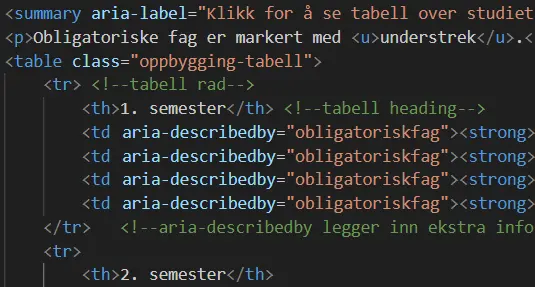
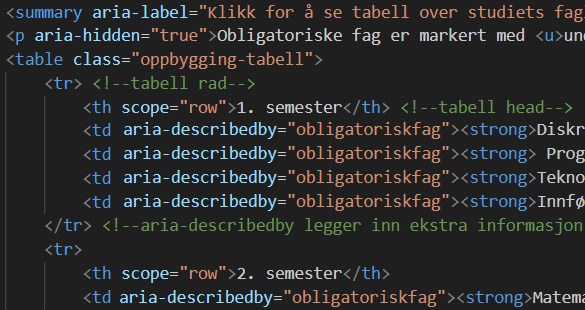
FERDIG :)

diff --git a/matmod-test/index.html b/matmod-test/index.html
@@ -42,7 +42,7 @@
             <h1>Matematisk modellering og datavitenskap - ingeniør</h1>
             <p class="bachelorprogram">Bachelorprogam</p>  <!--heading eller p?-->
 
-            <table class="oversikt-tabell">
+            <table class="oversikt-tabell" aria-label="tabellen viser oversikt over studiested, varighet, omfang, studiepoeng, studiestart, undervisningsspråk og antall studieplasser">
                 <tr>
                     <td><strong>Studiested</strong><br>Pilestredet i Oslo</td>
                     <td><strong>Varighet</strong><br>3 år</td>
@@ -213,64 +213,64 @@
 
         <details class="studiets-oppbygging"> <!--Tabell for studiets faglige oppbygging-->
             <summary aria-label="Klikk for å se tabell over studiets faglige oppbygging"><h2>&#9658 Studiets oppbygging</h2></summary>
-            <p>Obligatoriske fag er markert med <u>understrek</u>.</p>
+            <p aria-hidden="true">Obligatoriske fag er markert med <u>understrek</u>.</p>
             <table class="oppbygging-tabell">
                 <tr> <!--tabell rad-->
-                    <th>1. semester</th> <!--tabell heading-->
+                    <th scope="row">1. semester</th> <!--tabell head-->
                     <td class="obligatoriskfag" aria-describedby="obligatoriskfag"><strong>Diskret matematikk</strong><br> DAPE1300 10stp.</td> <!--tabell data-->
                     <td class="obligatoriskfag" aria-describedby="obligatoriskfag"><strong> Programmering </strong><br> DAPE1400 10stp.</td>
                     <td class="obligatoriskfag" aria-describedby="obligatoriskfag"><strong>Teknologi og samfunn for programmerere</strong> <br> DATA1100 5stp.</td>
                     <td class="obligatoriskfag" aria-describedby="obligatoriskfag"><strong>Innføring i modeller og beregninger</strong> <br> MAMO1100 5 stp.</td>
-                </tr>   <!--aria-describedby legger inn ekstra informasjon for skjermlesere, uten å override det originale innholdet-->
+                </tr> <!--aria-describedby legger inn ekstra informasjon for skjermlesere, uten å override det originale innholdet-->
                 <tr>
-                    <th>2. semester</th>
+                    <th scope="row">2. semester</th>
                     <td class="obligatoriskfag" aria-describedby="obligatoriskfag"><strong>Matematikk 1000</strong><br>DAFE1000 10stp.</td>
-                    <td class="obligatoriskfag" aria-describedby="obligatoriskfag"><strong>Fysikk og kjemi</strong><br>DAPE 2101 10 stp.</td>
+                    <td class="obligatoriskfag" aria-describedby="obligatoriskfag"><strong>Fysikk og kjemi</strong><br>DAPE2101 10 stp.</td>
                     <td class="obligatoriskfag" aria-describedby="obligatoriskfag"><strong>Databaser</strong><br>DATA1500 10 stp.</td>
                 </tr>
                 <tr>
-                    <th>3. semester</th>
+                    <th scope="row">3. semester</th>
                     <td class="obligatoriskfag" aria-describedby="obligatoriskfag"><strong>Matematikk 2000 med statistikk</strong><br>DAPE2000 10stp.</td>
                     <td class="obligatoriskfag" aria-describedby="obligatoriskfag"><strong>Moderne fysikk</strong><br>MAMO2100 10stp</td>
                 </tr>
                 <tr>
-                    <th>Emnegruppe: Matematikk og fysikk</th>
+                    <th scope="row" aria-describedby="3. semester">Emnegruppe: Matematikk og fysikk</th>
                     <td class="obligatoriskfag" aria-describedby="obligatoriskfag"><strong>Lineær algebra og introduksjon til gruppeteori</strong><br>MAMO2300 10 stp.</td>
                 </tr>
                 <tr>
-                    <th>Emnegruppe: Statistiske og datadrevne metoder</th>
+                    <th scope="row" aria-describedby="3. semester">Emnegruppe: Statistiske og datadrevne metoder</th>
                     <td class="obligatoriskfag" aria-describedby="obligatoriskfag"><strong>Algoritmer og datastrukturer</strong><br>DATS2300 10 stp.</td>
                 </tr>
                 <tr>
-                    <th>Emnegruppe: Vitenskaplige beregninger</th>
+                    <th scope="row" aria-describedby="3. semester">Emnegruppe: Vitenskaplige beregninger</th>
                     <td class="obligatoriskfag" aria-describedby="obligatoriskfag"><strong>Algoritmer og datastrukturer</strong><br>DATS2300 10 stp.</td>
                 </tr>
                 <tr>
-                    <th>4. semester</th>
+                    <th scope="row">4. semester</th>
                     <td class="obligatoriskfag" aria-describedby="obligatoriskfag"><strong>Matematikk 4000</strong><br>DAVE3705 10 stp.</td>
                 </tr>
                 <tr>
-                    <th>Emnegruppe: Matematikk og fysikk</th>
+                    <th scope="row" aria-describedby="4. semester">Emnegruppe: Matematikk og fysikk</th>
                     <td class="obligatoriskfag" aria-describedby="obligatoriskfag"><strong>Termodynamikk og statistisk fysikk</strong><br>MAMO2400 10 stp.</td>
                     <td class="obligatoriskfag" aria-describedby="obligatoriskfag"><strong>Symmetrier og algebraiske strukturer</strong><br>MAMO2500 10stp.</td>
                 </tr>
                 <tr>
-                    <th>Emnegruppe: Statistiske og datadrevne metoder</th>
+                    <th scope="row" aria-describedby="4. semester">Emnegruppe: Statistiske og datadrevne metoder</th>
                     <td class="obligatoriskfag" aria-describedby="obligatoriskfag"><strong>Statistisk analyse</strong><br>MAMO3100 10stp.</td>
                     <td aria-describedby="valgfag"><strong>Visualisering</strong><br>ADSE2300 10 stp.</td>
                     <td aria-describedby="valgfag"><strong>Avansert modellering og beregninger</strong><br>MAMO2200 10 stp.</td>
                 </tr>
                 <tr>
-                    <th>Emnegruppe: Vitenskaplige beregninger</th>
+                    <th scope="row" aria-describedby="4. semester">Emnegruppe: Vitenskaplige beregninger</th>
                     <td class="obligatoriskfag" aria-describedby="obligatoriskfag"><strong>Ressurseffektive programmer</strong><br>DAVE3606 10stp.</td>
                     <td class="obligatoriskfag" aria-describedby="obligatoriskfag"><strong>Avansert modellering og beregninger</strong><br>MAMO2200 10 stp.</td>
                 </tr>
                 <tr>
-                    <th>5. semester</th>
+                    <th scope="row">5. semester</th>
                     <td class="obligatoriskfag" aria-describedby="obligatoriskfag"><strong>Matematikk 3000</strong><br>DAVE3700 10stp.</td>
                 </tr>
                 <tr>
-                    <th>Emnegruppe: Matematikk og fysikk</th>
+                    <th aria-describedby="5. semester">Emnegruppe: Matematikk og fysikk</th>
                     <td class="obligatoriskfag" aria-describedby="obligatoriskfag"><strong>Reell analyse</strong><br>MAMO3300 10stp.</td>
                     <td aria-describedby="valgfag"><strong>Introduksjon til IT-forskning</strong><br>DATA3730 10stp.</td>
                     <td aria-describedby="valgfag"><strong>Introduction to Data Science with Scripting</strong><br>DATA3800 10stp.</td>
@@ -278,7 +278,7 @@
                     <td aria-describedby="valgfag"><strong>Simulering og visualisering</strong><br>MAMO3200 10 stp.</td>
                 </tr>
                 <tr>
-                    <th>Emnegruppe: Statistiske og datadrevne metoder</th>
+                    <th scope="row" aria-describedby="5. semester">Emnegruppe: Statistiske og datadrevne metoder</th>
                     <td class="obligatoriskfag" aria-describedby="obligatoriskfag"><strong>Introduksjon til Kunstig Intelligens</strong><br>DAVE3625 10stp.</td>
                     <td aria-describedby="valgfag"><strong>Introduksjon til IT-forskning</strong><br>DATA3730 10stp.</td>
                     <td aria-describedby="valgfag"><strong>Anvendt kunstig intelligens og data science project</strong><br>DATA3750 10 stp.</td>
@@ -286,7 +286,7 @@
                     <td aria-describedby="valgfag"><strong>Simulering og visualisering</strong><br>MAMO3200 10 stp.</td>
                  </tr>
                  <tr>
-                    <th>Emnegruppe: Vitenskaplige beregninger</th>
+                    <th scope="row" aria-describedby="5. semester">Emnegruppe: Vitenskaplige beregninger</th>
                     <td class="obligatoriskfag" aria-describedby="obligatoriskfag"><strong>Simulering og visualisering</strong><br>MAMO3200 10 stp.</td>
                     <td aria-describedby="valgfag"><strong>Introduksjon til IT-forskning</strong><br>DATA3730 10stp.</td>
                     <td aria-describedby="valgfag"><strong>Datasikkerhet</strong><br>ITPE3100 10 stp.</td>
@@ -294,24 +294,24 @@
                     <td aria-describedby="valgfag"><strong>Reell analyse</strong><br>MAMO3300 10stp.</td>
                 </tr>
                 <tr>
-                    <th>6.semester</th>
+                    <th scope="row">6.semester</th>
                     <td class="obligatoriskfag" aria-describedby="obligatoriskfag"><strong>Bacheloroppgave</strong><br>DATA3900 20stp.</td>
                 </tr>
                 <tr>
-                    <th>Emnegruppe: Matematikk og fysikk</th>
+                    <th scope="row" aria-describedby="6. semester">Emnegruppe: Matematikk og fysikk</th>
                     <td aria-describedby="valgfag"><strong>Testing av programvare</strong><br>ADTS2310 10stp.</td>
                     <td aria-describedby="valgfag"><strong>Datanettverk og skytjenester</strong><br>DATA2410 10stp.</td>
                     <td aria-describedby="valgfag"><strong>Ressurseffektive programmer</strong><br>DAVE3606 10stp.</td>
                     <td aria-describedby="valgfag"><strong>Avansert modellering og beregninger</strong><br>MAMO2200 10 stp.</td>
                 </tr>
                 <tr>
-                    <th>Emnegruppe: Statistiske og datadrevne metoder</th>
+                    <th scope="row" aria-describedby="6. semester">Emnegruppe: Statistiske og datadrevne metoder</th>
                     <td aria-describedby="valgfag"><strong>Testing av programvare</strong><br>ADTS2310 10stp.</td>
                     <td aria-describedby="valgfag"><strong>Datanettverk og skytjenester</strong><br>DATA2410 10stp.</td>
                     <td aria-describedby="valgfag"><strong>Ressurseffektive programmer</strong><br>DAVE3606 10stp.</td>
                 </tr>
                 <tr>
-                    <th>Emnegruppe: Vitenskaplige beregninger</th>
+                    <th scope="row" aria-describedby="6. semester">Emnegruppe: Vitenskaplige beregninger</th>
                     <td aria-describedby="valgfag"><strong>Visualisering</strong><br>ADSE2300 10 stp.</td>
                     <td aria-describedby="valgfag"><strong>Testing av programvare</strong><br>ADTS2310 10stp.</td>
                     <td aria-describedby="valgfag"><strong>Datanettverk og skytjenester</strong><br>DATA2410 10stp.</td>

diff --git a/matmod-test/style.css b/matmod-test/style.css
@@ -1,30 +1,30 @@
 /* Innhold:
 
-    Hovedside
-        Header
-        Innledning (mellom header og hoved-grid)
-        Details
-        Main-grid og second-grid
-        Bilder i hoved-grid
-        Studiets oppbygging-tabell
-        Studiets oppbygging-tabell @media (max-width: 800px)
-        Andre fag og studenthistorier
-        Aside: spå fremtiden
-        Footer
+    33 Hovedside
+        72 Header
+        99 Innledning (mellom header og hoved-grid)
+        140 Details
+        150 Main-grid og second-grid
+        237 Bilder i hoved-grid
+        246 Studiets oppbygging-tabell
+        285 Studiets oppbygging-tabell @media (max-width: 800px)
+        325 Andre fag og studenthistorier
+        353 Aside: spå fremtiden
+        419 Footer
 
-        Hovedside for mobiltelefon
-        Hovedside for ultra-wide skjerm
-        Hovedside for nettbrett
+        474 Hovedside for mobiltelefon
+        570 Hovedside for ultra-wide skjerm
+        683 Hovedside for nettbrett
 
-    Activityside 
-        Aktivitetsbokser
-        Informasjon under aktivitetsbokser  
-        Footer
-        Activity for mobil
-        Activity for ultra-wide skjerm 
+    707 Activityside 
+        742 Aktivitetsbokser
+        815 Informasjon under aktivitetsbokser  
+        849 Footer
+        892 Activity for mobil
+        910 Activity for ultra-wide skjerm 
 
-    Github
-    Accessibility
+    933 Github
+    984 Accessibility
     */
 
 
@@ -35,7 +35,7 @@
 body {
     overflow-x: hidden;
     margin: 0;
-    font-family: Montserrat, Helvetica, Arial; /* må endres */ 
+    font-family: Montserrat, Helvetica, Arial; 
 }
 
 h1{
@@ -116,21 +116,19 @@ button:hover, a:hover {
         font-size: large;
     }
 
+    td {
+        vertical-align: top;
+    }
+
     .oversikt-tabell{
         margin-left: auto;
         margin-right: auto; /* Plasserer tabellen midt på siden (horisontalt)*/
-        overflow-x: auto; /* Enable horizontal scrolling */ 
-        -webkit-overflow-scrolling: touch; /* For smooth scrolling on mobile */ 
     }
 
-    .oversikt-tabell, .oversikt-tabell th, .oversikt-tabell td { /*MÅ FIKSES MTP PÅ SKALERING*/
+    .oversikt-tabell, .oversikt-tabell th, .oversikt-tabell td { 
         border-spacing: 20px;
         color: black;
         text-align: left;
-    }
-
-    td {
-        vertical-align: top;
     }
 
     .bachelorprogram {
@@ -238,22 +236,15 @@ button:hover, a:hover {
 
 /* BILDER I HOVED-GRID */
 
-    .lilla-student-bilde>img, .robot-bilde>img, .gruppearbeid-bilde>img, .undervisning-bilde>img, .digital-bilde>img  {
-        object-fit: cover; /* cover sørger for at containeren alltid fylles opp av bildet */
-        max-width: 100%; 
-        
-        height: 100%; 
-    } 
-
     .main-grid picture>img {
-    object-fit: cover; /* cover sørger for at containeren alltid fylles opp av bildet */
-    max-width: 100%; 
+    object-fit: cover; /* cover sørger for at containeren alltid fylles opp av bildet */ 
     width: 100%;
     height: 100%;
     }
 
 
 /* STUDIETS OPPBYGGING TABELL */
+
     .studiets-oppbygging {
         background-color: rgb(218, 228, 236);
         margin: 2%;
@@ -360,6 +351,7 @@ button:hover, a:hover {
 
 
 /*ASIDE: SPÅ FREMTIDEN*/
+
     .spa-fremtiden-aside{
         margin-left: 5%;
         margin-right: 5%;
@@ -425,6 +417,7 @@ button:hover, a:hover {
 
 
 /* FOOTER */
+
     footer {
         background-color: rgb(157, 141, 214);
         margin-top: 5%;
@@ -477,7 +470,9 @@ button:hover, a:hover {
     }
 
 
+
 /* HOVEDSIDE FOR MOBILTELEFON */
+
 @media screen and (max-width: 600px) { 
 
     header {
@@ -512,7 +507,7 @@ button:hover, a:hover {
     .oversikt-tabell {
         border-spacing: 5px;
         font-size: 2.8vw;   
-    } 
+    }  
 
     .ingress {
         font-size: 3.5vw;
@@ -570,7 +565,8 @@ button:hover, a:hover {
 }
 
 
-/* ULTRA WIDE 21:9 SKJERM*/
+/* HOVEDSIDE FOR ULTRA WIDE 21:9 SKJERM*/
+
 @media screen and (min-width: 1800px) { /*1800 er min-width for tre kolonner i griden*/
     header {
         height: 125px;
@@ -685,6 +681,7 @@ button:hover, a:hover {
 
 
 /*FOR NETTBRETT */
+
 @media screen and (max-width: 1200px) { 
     .lilla-student-bilde {order: 0;}
     .hva-kan-du-jobbe-som {order: 1;}
@@ -701,8 +698,6 @@ button:hover, a:hover {
 }
 /*for nettbrett fungerer siden i utgangspunktet greit uten tilpasninger, 
 men rekkefølgen på boksene må endres da de vil vises i 1 kolonne, som på mobiltelefon. */
-
-
 
 
 
@@ -763,18 +758,19 @@ men rekkefølgen på boksene må endres da de vil vises i 1 kolonne, som på mob
         border-radius: 8px;
         overflow: hidden;
         box-shadow: 0 4px 8px rgba(0, 0, 0, 0.3);
-        flex: 0 0 calc(50% - 30px); /* Denne linjen fant vi på stack overflow. Gjør at boksene tar opp 50% av bredden minus litt plass til margin */
+        flex: 0 0 calc(50% - 30px); /* Gjør at boksene tar opp 50% av bredden minus litt plass til margin, kilde: https://developer.mozilla.org/en-US/docs/Web/CSS/flex ,
+        kilde calc: https://developer.mozilla.org/en-US/docs/Web/CSS/calc */
         margin: 10px;
     }
 
     .aktivitet-tekst {
-        background-color: rgba(0, 0, 0, 0.5);
+        background-color: rgba(0, 0, 0, 0.7);
         border-radius: 10px;
     } /*Bakgrunnsfarge på tekst i aktivitetsbokser for accessibility*/
     
     /* oppsett for innholdet på aktivitetene*/
     .aktivitetsside .aktivitetsoppsett {
-        background: rgba(0, 0, 0, 0.7);
+        background: rgba(0, 0, 0, 0.3);
         padding: 20px;
         width: 100%;
         height: 100%;
@@ -892,6 +888,7 @@ men rekkefølgen på boksene må endres da de vil vises i 1 kolonne, som på mob
 
 
 /* ACTIVITY FOR MOBILSKJERM */
+
       @media screen and (max-width: 600px) { 
         .aktivitetsside .innledning p{
             margin-left: 2vw;
@@ -911,6 +908,7 @@ men rekkefølgen på boksene må endres da de vil vises i 1 kolonne, som på mob
 
 
 /* ACTIVITY FOR ULTRA WIDE SKJERM*/
+
     @media screen and (min-width: 1800px) { 
         .aktivitetsside p, .aktivitetsside .innledning p, .aktivitetsside .main-grid p, 
         .aktivitetsside .main-grid a, .aktivitetsside .turutstyr li, .aktivitetsside .sikkerhetstips li, .aktivitetsside .turruter li {

diff --git a/matmod-test/github.html b/matmod-test/github.html
@@ -52,13 +52,11 @@
             <picture>
                 <source media="(max-width: 600px)" srcset="bilder/github/github-screenshot1-small.webp"> 
                 <img src="bilder/github/github-screenshot1.webp" alt="The group members alternate pushing their commits to github">
-            <figcaption>tekst</figcaption>
             </picture>
 
             <picture>
                 <source media="(max-width: 600px)" srcset="bilder/github/github-screenshot2-small.webp"> 
                 <img src="bilder/github/github-screenshot2.webp" alt="Github facilitates seamless teamwork by allowing group members to push and merge their work">
-            <figcaption>tekst</figcaption>
             </picture>    
         </figure>
         <!--we had to crop the image widths for readability on narrow sreens-->
